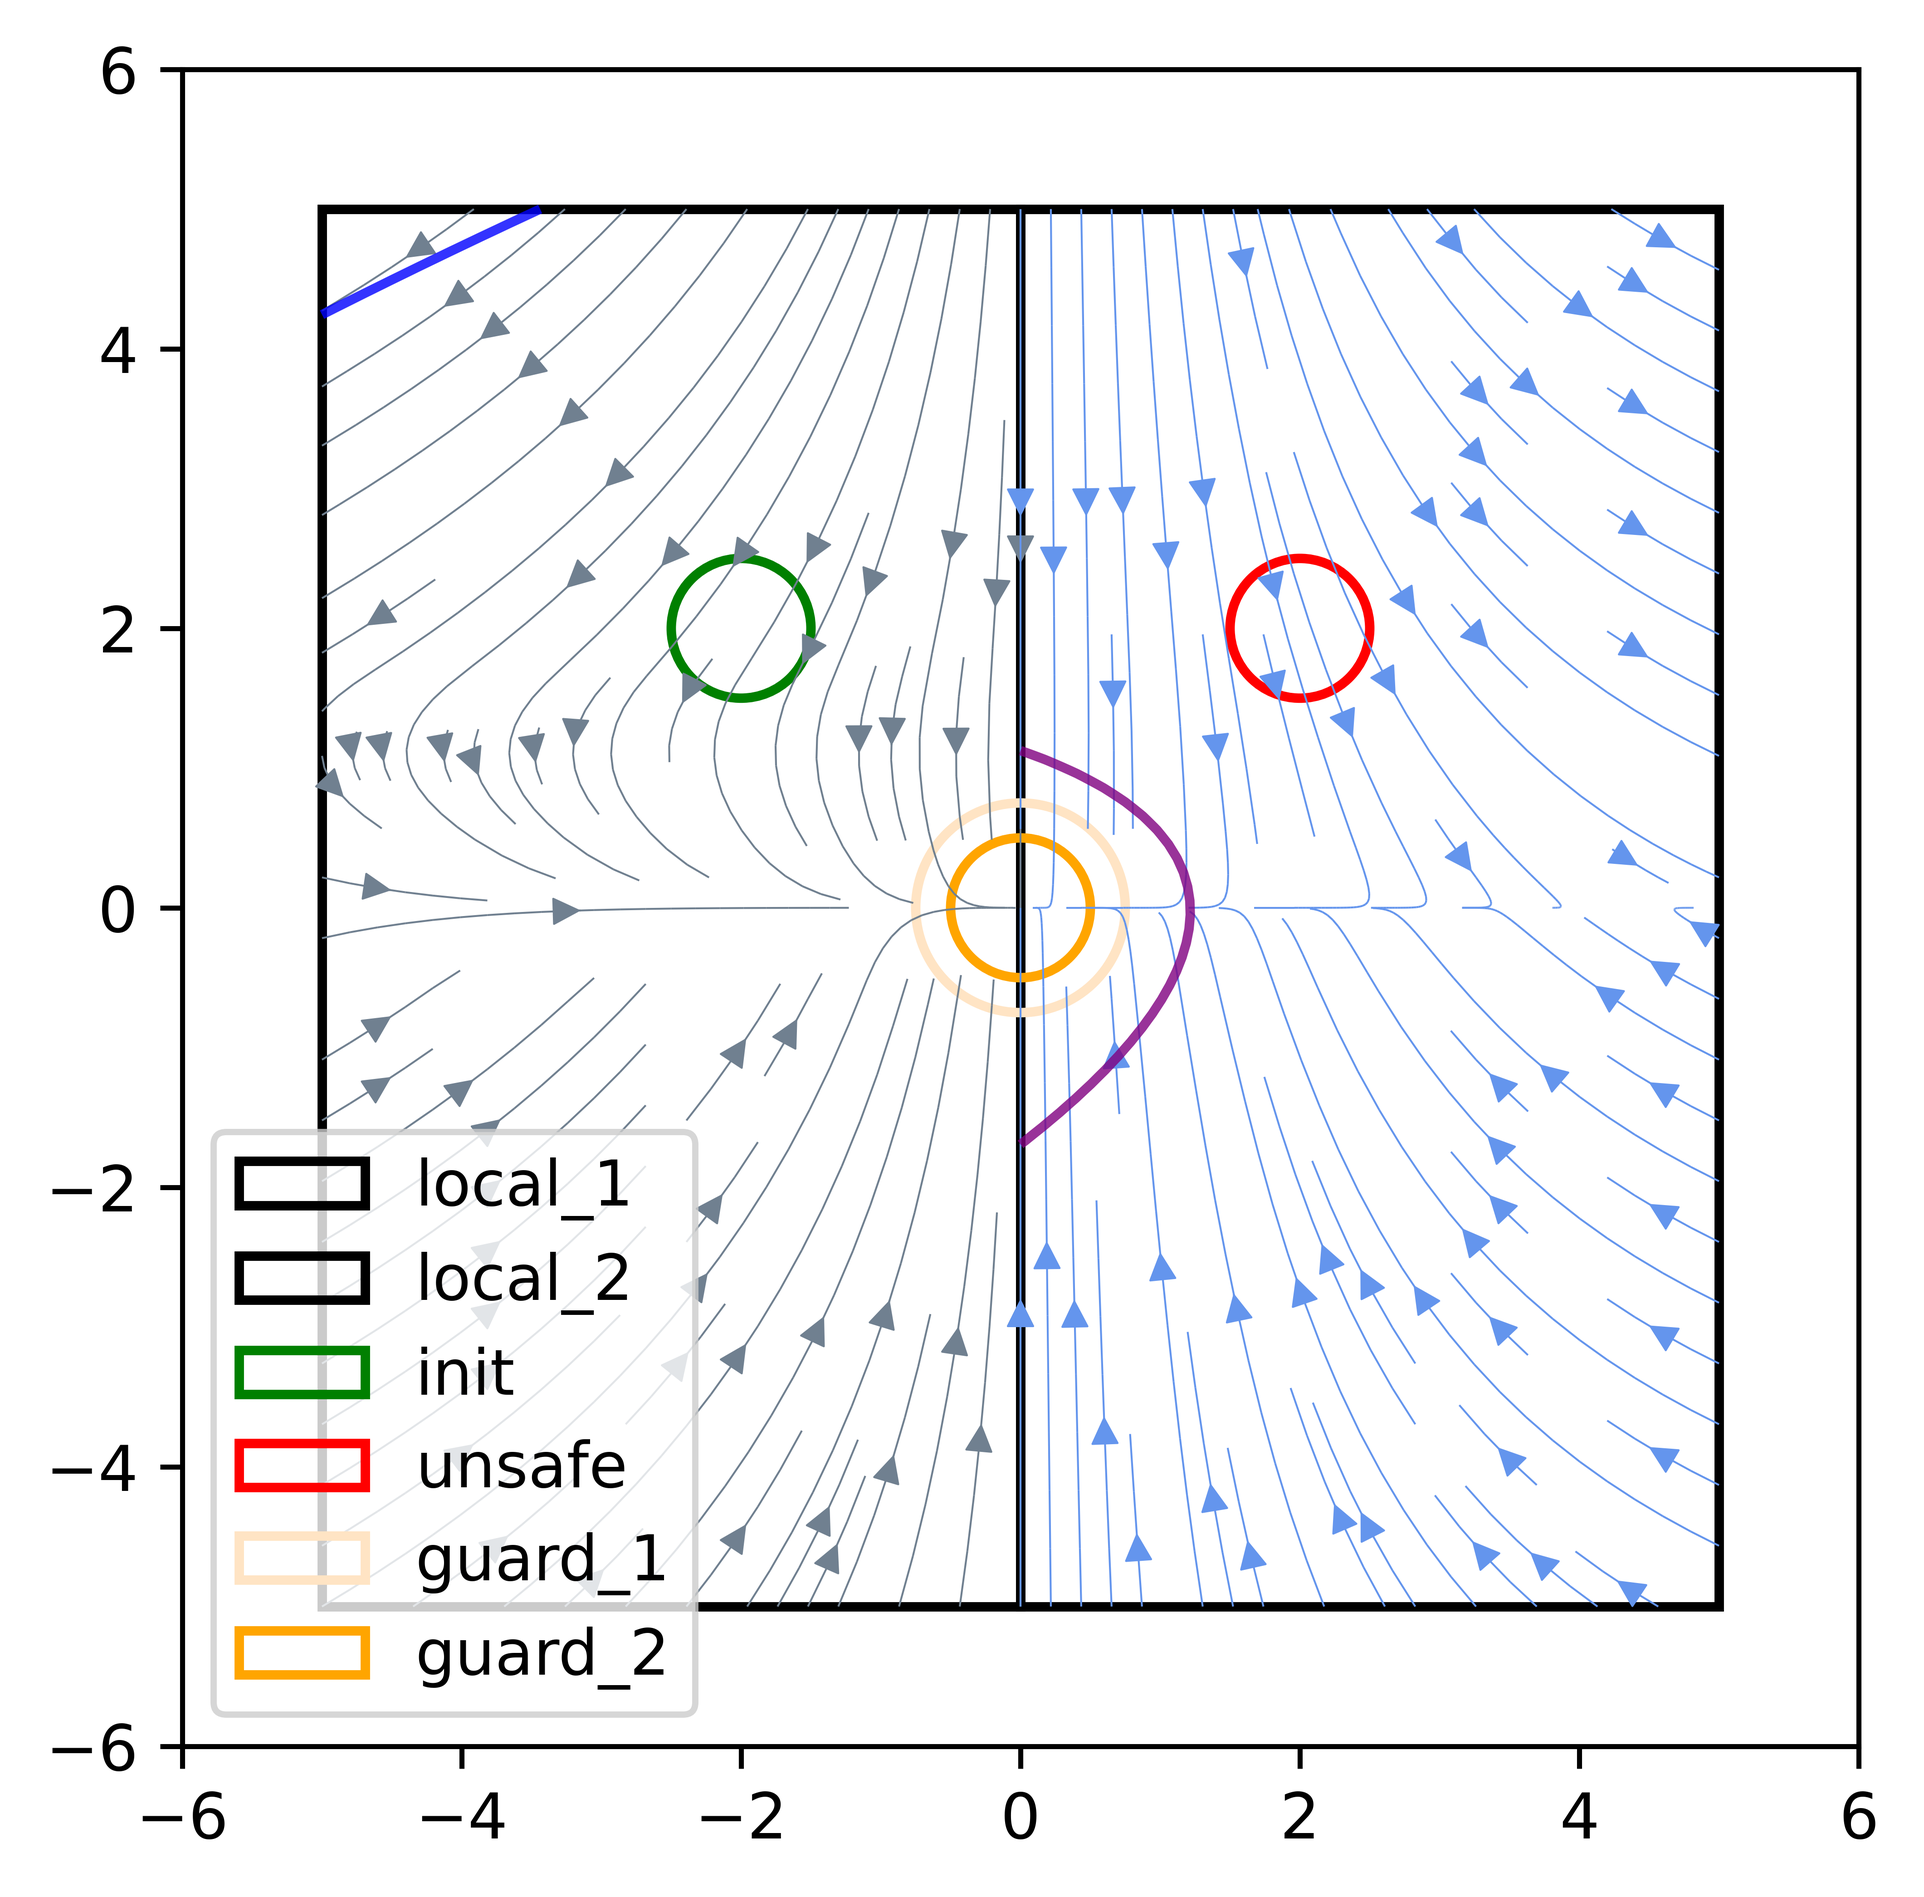
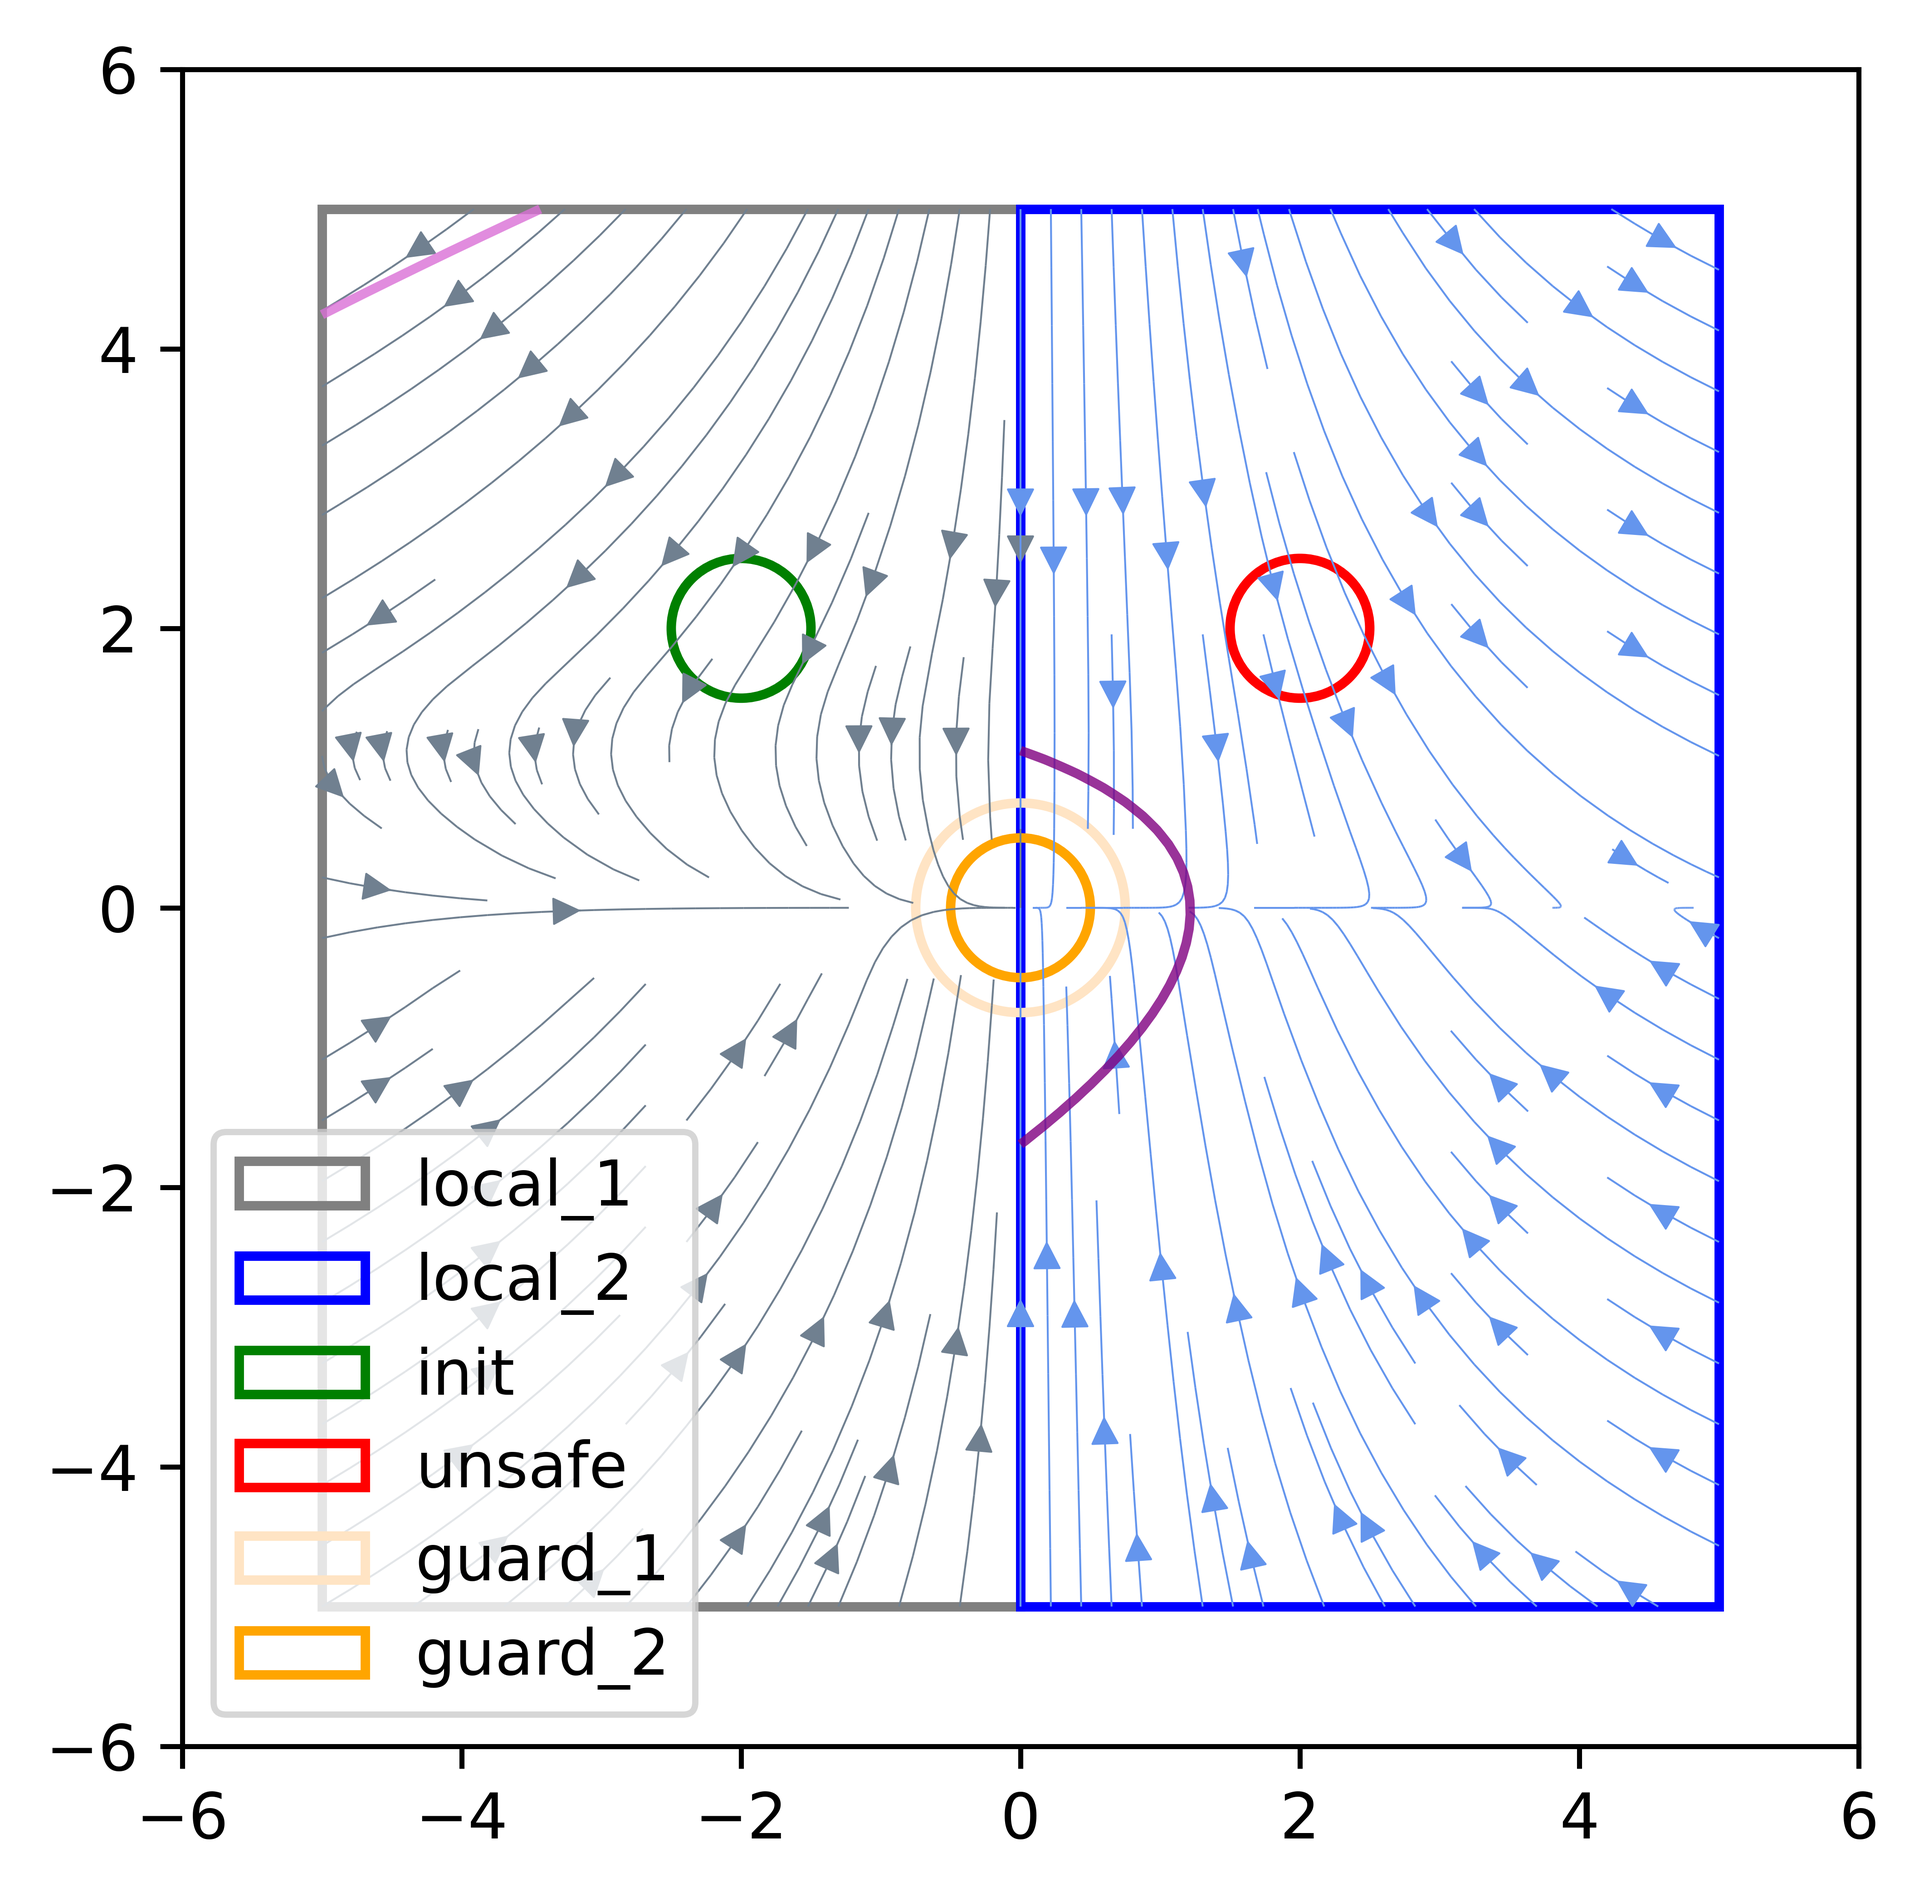
1.27

Changed region(s): [[0.1245, 0.0933, 0.9024, 0.8706]]

diff --git a/plot/plot.py b/plot/plot.py
@@ -19,8 +19,8 @@ class Draw:
         fig = plt.figure()
         ax = plt.gca()
 
-        ax.add_patch(self.draw_zone(self.ex.l1, 'black', 'local_1'))
-        ax.add_patch(self.draw_zone(self.ex.l2, 'black', 'local_2'))
+        ax.add_patch(self.draw_zone(self.ex.l1, 'grey', 'local_1'))
+        ax.add_patch(self.draw_zone(self.ex.l2, 'blue', 'local_2'))
         ax.add_patch(self.draw_zone(self.ex.I, 'g', 'init'))
         ax.add_patch(self.draw_zone(self.ex.U, 'r', 'unsafe'))
         ax.add_patch(self.draw_zone(self.ex.g1, 'bisque', 'guard_1'))
@@ -31,7 +31,7 @@ class Draw:
         self.plot_vector_field(l1, self.ex.f1, 'slategrey')
         self.plot_vector_field(l2, self.ex.f2, 'cornflowerblue')
 
-        self.plot_barrier(l1, self.b1, 'blue')
+        self.plot_barrier(l1, self.b1, 'orchid')
         self.plot_barrier(l2, self.b2, 'purple')
 
         plt.xlim(min(l1.low[0], l2.low[0]) - 1, max(l1.up[0], l2.up[0]) + 1)
@@ -75,6 +75,7 @@ class Draw:
         unsafe = self.draw_zone(self.ex.U, color='r', label='unsafe')
         ax.add_patch(unsafe)
         art3d.pathpatch_2d_to_3d(unsafe, z=0, zdir="z")
+        # ax.view_init(elev=25, azim=-86)
         plt.savefig(f'picture/{self.ex.name}_3d.png', dpi=1000, bbox_inches='tight')
         plt.show()
 

diff --git a/README.md b/README.md
@@ -1,6 +1,6 @@
 # 1.Introduction
 
-SNBCHS represents a cutting-edge software toolbox dedicated to safety verification in continuous dynamical systems by
+SynHbc represents a cutting-edge software toolbox dedicated to safety verification in continuous dynamical systems by
 synthesizing neural barrier certificates. Synthesizing process is an counterexample-guided inductive framework
 comprising of Learner, Verifier, and Cex Generator components. During counterexample generation, we employ a specific
 format to transform the process into a polynomial optimization problem, streamlining the acquisition of optimal
@@ -9,12 +9,12 @@ solving Linear Matrix Inequalities (LMI) feasibility problems.
 
 This approach is particularly effective and scalable, outperforming traditional sum-of-squares programming techniques
 for solving linear or bilinear matrix inequality constraints in barrier certificate generation. Additionally, it
-surpasses state-of-the-art neural barrier certificate learning methods. Notably, SNBCHS is the pioneering procedure for
+surpasses state-of-the-art neural barrier certificate learning methods. Notably, SynHbc is the pioneering procedure for
 synthesizing neural barrier certificates tailored for hybrid systems with discrete transitions. The software toolbox
 provides a comprehensive solution, encompassing crucial elements such as hybrid systems and counterexample (Cex)
 generation, making it a versatile and powerful tool for safety verification.
 
-The directory in which you install SNBCHS contains nine subdirectories:
+The directory in which you install SynHbc contains nine subdirectories:
 
 * `/benchmarks`: the examples we showed in paper;
 * `/learn`: the code of learner;
@@ -28,7 +28,7 @@ The directory in which you install SNBCHS contains nine subdirectories:
 
 ## 2.1 System requirements
 
-To install and run SNBCHS, you need:
+To install and run SynHbc, you need:
 
 * Windows Platform: `Python 3.9`;
 * Linux Platform: `Python 3.9`;
@@ -38,8 +38,8 @@ To install and run SNBCHS, you need:
 
 You need install required software packages listed below and setting up a MOSEK license .
 
-1. Download SNBCHS.zip, and unpack it;
-2. Install the required software packages for using SNBCHS:
+1. Download SynHbc.zip, and unpack it;
+2. Install the required software packages for using SynHbc:
 
     ```python
     pip install cvxopt==1.3.0
@@ -70,7 +70,7 @@ You need install required software packages listed below and setting up a MOSEK 
 
 ## 3.1 New examples
 
-In SNBCHS, if we want to synthesize a barrier certificate, at first we need create a new example in the examples
+In SynHbc, if we want to synthesize a barrier certificate, at first we need create a new example in the examples
 dictionary in `Examplers.py`. Then we should confirm its number. In an example, its number is the key and value is the
 new example constructed by Example class.
 
